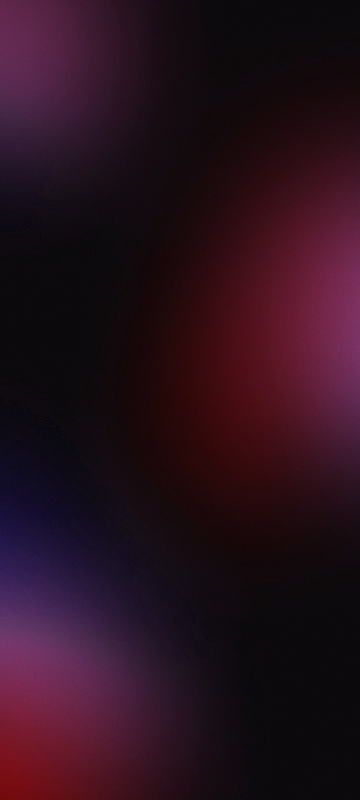
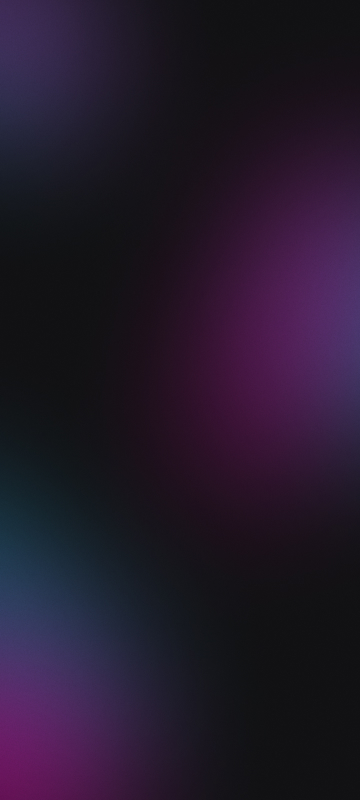
Change background based on media queries

Changed region(s): [[0.4278, 0.1875, 1.0, 0.625], [0.0, 0.5938, 0.3972, 1.0], [0.0, 0.0, 0.2444, 0.1562]]

diff --git a/style.css b/style.css
@@ -4,6 +4,8 @@
   box-sizing: border-box;
 }
 
+/* light and dark mode */
+
 :root {
   --text-color: white;
   --bg-url: url(./assets/bg-mobile.jpg);
@@ -24,8 +26,11 @@
   --switch-bg: url(./assets/sun.svg);
 }
 
+/* body */
+
 body {
   background: var(--bg-url) no-repeat top center/cover;
+  height: 100vh;
 }
 
 body * {
@@ -121,7 +126,7 @@ ul li a {
   padding: 16px 24px;
 
   background: var(--surface-color);
-  border: 1px solid var(--stroke-color);
+  outline: 1px solid var(--stroke-color);
   border-radius: 8px;
 
   backdrop-filter: blur(4px);
@@ -135,7 +140,7 @@ ul li a {
 
 ul li a:hover {
   background: var(--surface-color-hover);
-  border: 1.5px solid var(--text-color);
+  outline: 1.5px solid var(--text-color);
 }
 
 /* Social links */
@@ -164,8 +169,23 @@ ul li a:hover {
   padding: 16px;
 }
 
+/* footer */ 
+
 footer {
   text-align: center;
   padding: 24px 0;
   font-size: 14px;
 }
+
+/* media queries */
+
+@media (min-width: 700px) {
+  :root {
+    --bg-url: url(./assets/bg-desktop.jpg);
+  }
+
+  .light {
+    --bg-url: url(./assets/bg-desktop-light.jpg);
+  }
+}
+
